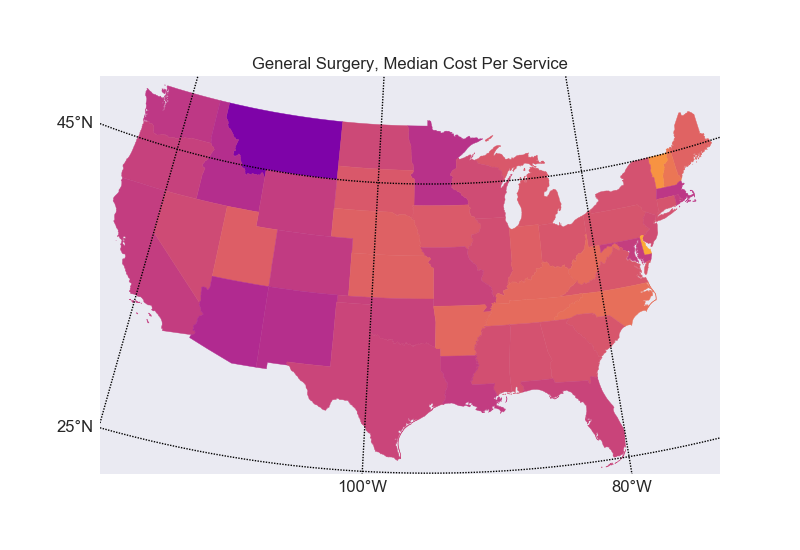
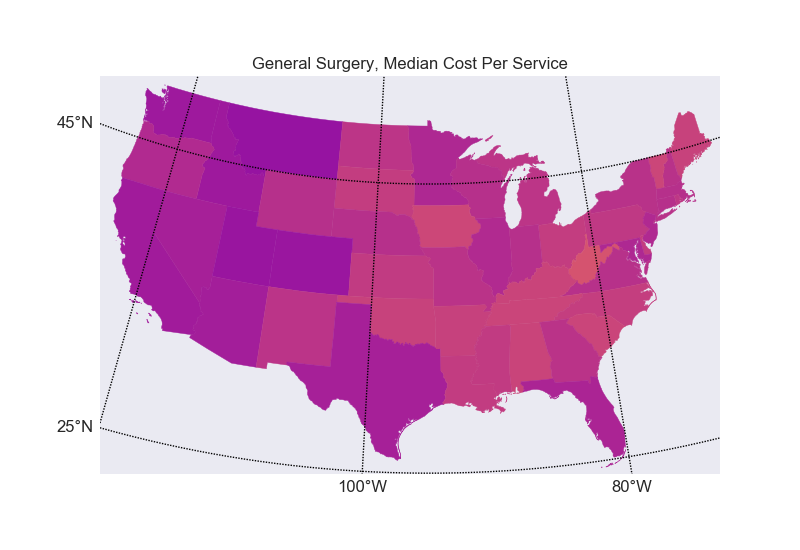
update maps w/ full data

Changed region(s): [[0.125, 0.1855, 0.9062, 0.8345], [0.1562, 0.1545, 0.2812, 0.2782]]

diff --git a/cms_explore.py b/cms_explore.py
@@ -239,14 +239,12 @@ def calc_by_states(df):
     bmap = get_basemap()  # read file once for all maps
 #   print(bmap.states_info[0].keys())
     im = p_group.ix['Internal Medicine']['pay_per_service']['median']
-#   print('Internal Medicine\n', im)
+    print('Internal Medicine\n', im)
     mmin, mmax = (0.9*im.min(), 1.1*im.max())  # should all be same scale?
-#   print('min %g, max %g' % (mmin, mmax))  # should all be same scale?
-#   print('Internal Medicine, Pay Per Service Median\n', im['pay_per_service']['median'])
     make_state_map(bmap, im, mmin, mmax, plotdir, 'cost_per_service_internal_medicine', 'Internal Medicine, Median Cost Per Service')
 
     im = p_group.ix['General Surgery']['pay_per_service']['median']
-#   print('General Surgery\n', im)
+    print('General Surgery\n', im)
     mmin, mmax = (0.9*im.min(), 1.1*im.max())  # should all be same scale?
     make_state_map(bmap, im, mmin, mmax, plotdir, 'cost_per_service_general_surgery', 'General Surgery, Median Cost Per Service')
 
